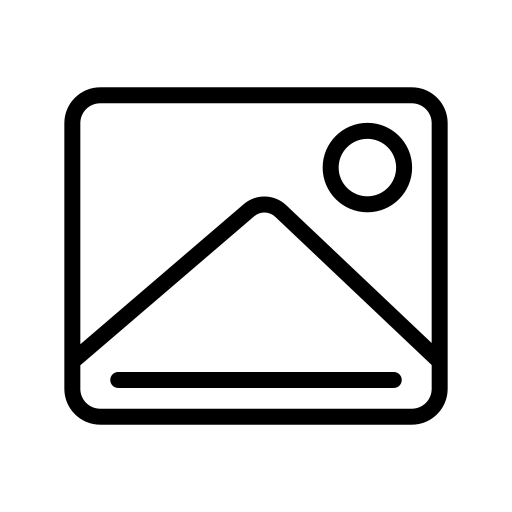
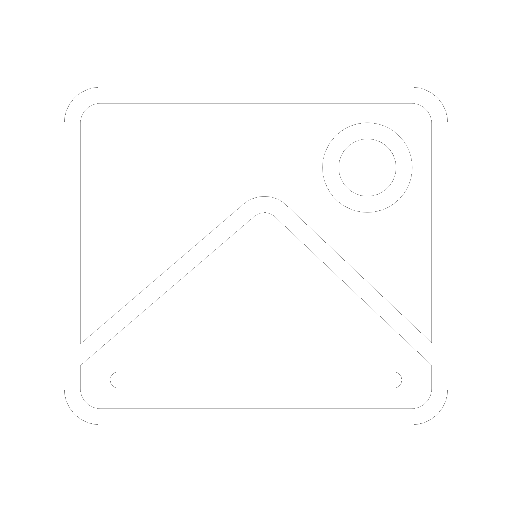
- Изменил цвет картинок - Изменил значение режима повтора по умолчанию - Добавил способ воспроизводства при выборе папки в соответствии с режимом повтора

Changed region(s): [[0.125, 0.1562, 0.875, 0.8438]]

diff --git a/MainWindow.xaml b/MainWindow.xaml
@@ -206,7 +206,7 @@
                                     TickFrequency="1" 
                                     IsSnapToTickEnabled="True"
                                     SmallChange="1" LargeChange="1"
-                                    Value="0"
+                                    Value="1"
                                     Width="100" 
                                     HorizontalAlignment="Center"
                                     ValueChanged="TrackEndModeSlider_ValueChanged"
@@ -223,7 +223,7 @@
                                     HorizontalAlignment="Center"
                                     VerticalAlignment="Center"
                                     Click="InvisibleSliderButton_Click"
-                                    Margin="10,0,0,0"/>
+                                    Margin="5,0,0,0"/>
                             </Grid>
                         </StackPanel>
                         <Label 
@@ -242,11 +242,15 @@
                                 </DataTemplate>
                             </Label.ContentTemplate>
                             <Label.Content>
-                                Все треки подряд
+                                Только этот трек
                             </Label.Content>
                         </Label>
                     </StackPanel>
-                    <StackPanel Grid.Column="2" Orientation="Horizontal" HorizontalAlignment="Right" VerticalAlignment="Center">
+                    <StackPanel 
+                        Grid.Column="2" 
+                        Orientation="Horizontal" 
+                        HorizontalAlignment="Right" 
+                        VerticalAlignment="Center">
                         <Button x:Name="SpeedButtonHalf"   Style="{StaticResource SpeedButtonStyle}" Content="0.5" Margin="3,0" Click="SpeedButton_Click"/>
                         <Button x:Name="SpeedButtonNormal" Style="{StaticResource SpeedButtonStyle}" Content="1"   Margin="3,0" Click="SpeedButton_Click"/>
                         <Button x:Name="SpeedButtonDouble" Style="{StaticResource SpeedButtonStyle}" Content="2"   Margin="3,0" Click="SpeedButton_Click"/>

diff --git a/MainWindow.xaml.cs b/MainWindow.xaml.cs
@@ -141,6 +141,23 @@ public partial class MainWindow
                 });
             }
         }
+
+        if (_isTrackPlaying || AudioFiles.Count == 0) return;
+
+        _currentTrack = AudioFiles[0];
+
+        if (_currentMode == PlaybackMode.RepeatAll)
+        {
+            SetCurrentTrack(AudioFiles[0]);
+            PlayTrack();
+        }
+
+        if (_currentMode == PlaybackMode.Random)
+        {
+            var rand = new Random();
+            SetCurrentTrack(AudioFiles[rand.Next(0,AudioFiles.Count)]);
+            PlayTrack();
+        }
     }
     private void TrackDataGrid_OnSelectionChanged(object sender, SelectionChangedEventArgs e)
     {
@@ -150,6 +167,7 @@ public partial class MainWindow
         if (TrackDataGrid.SelectedItem is not AudioFileInfo selectedTrackInfo) return;
 
         SetCurrentTrack(selectedTrackInfo);
+        PlayTrack();
     }
 
     private void SetCurrentTrack(AudioFileInfo trackInfo)
